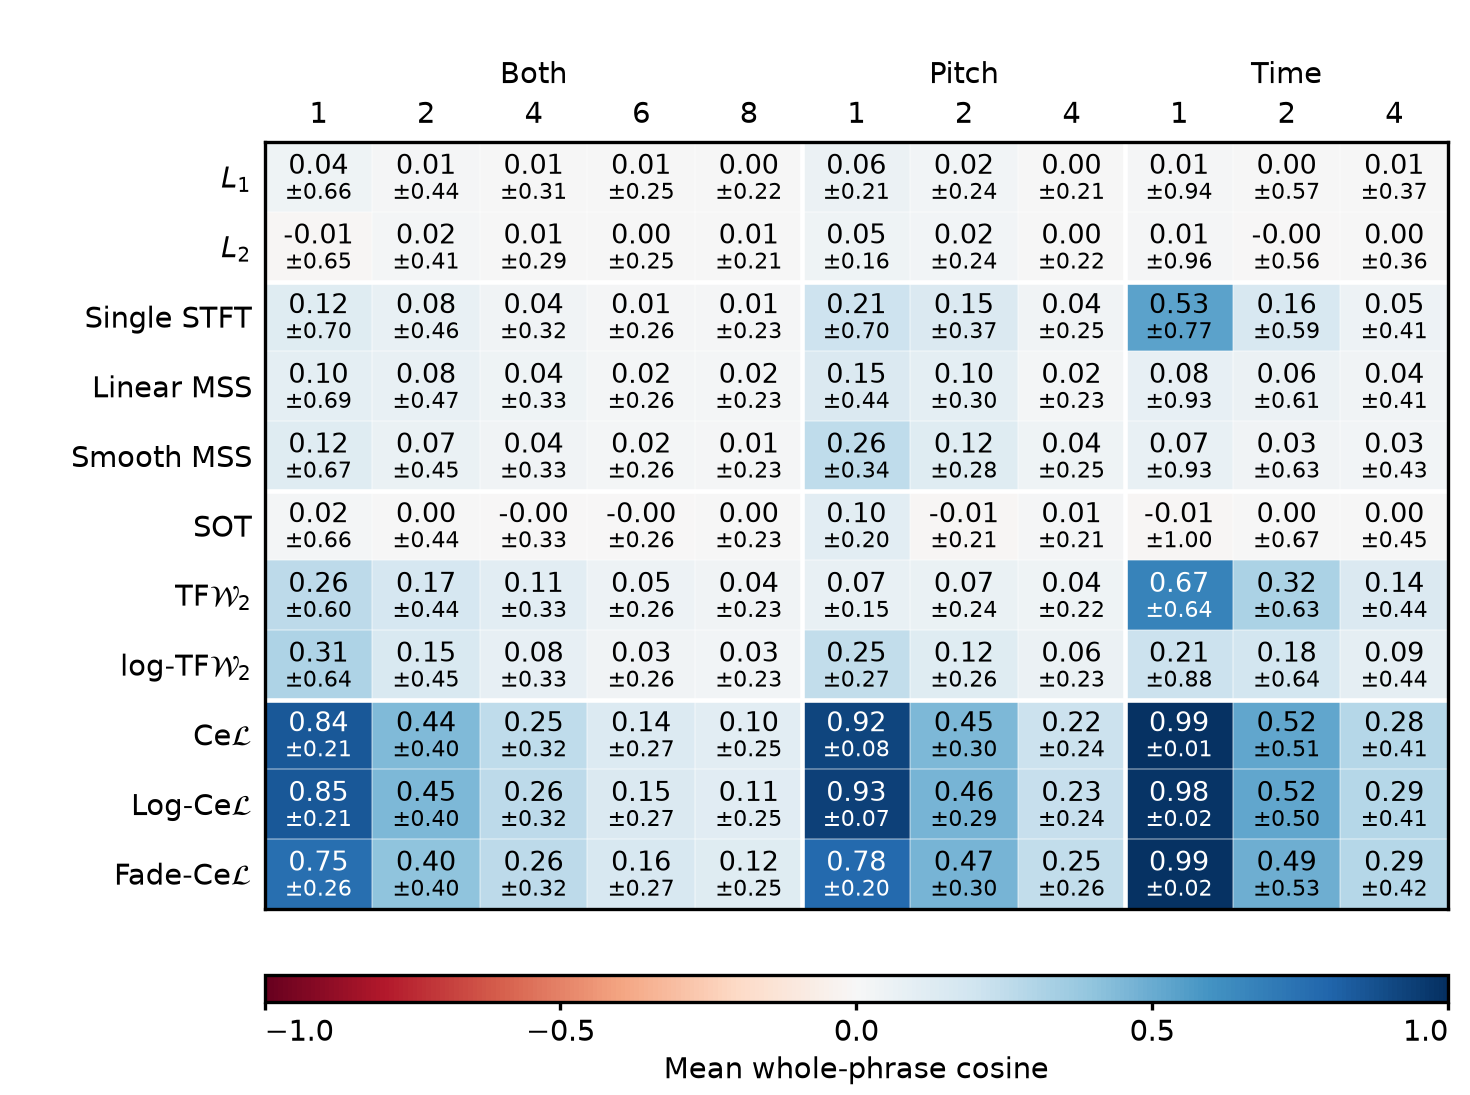
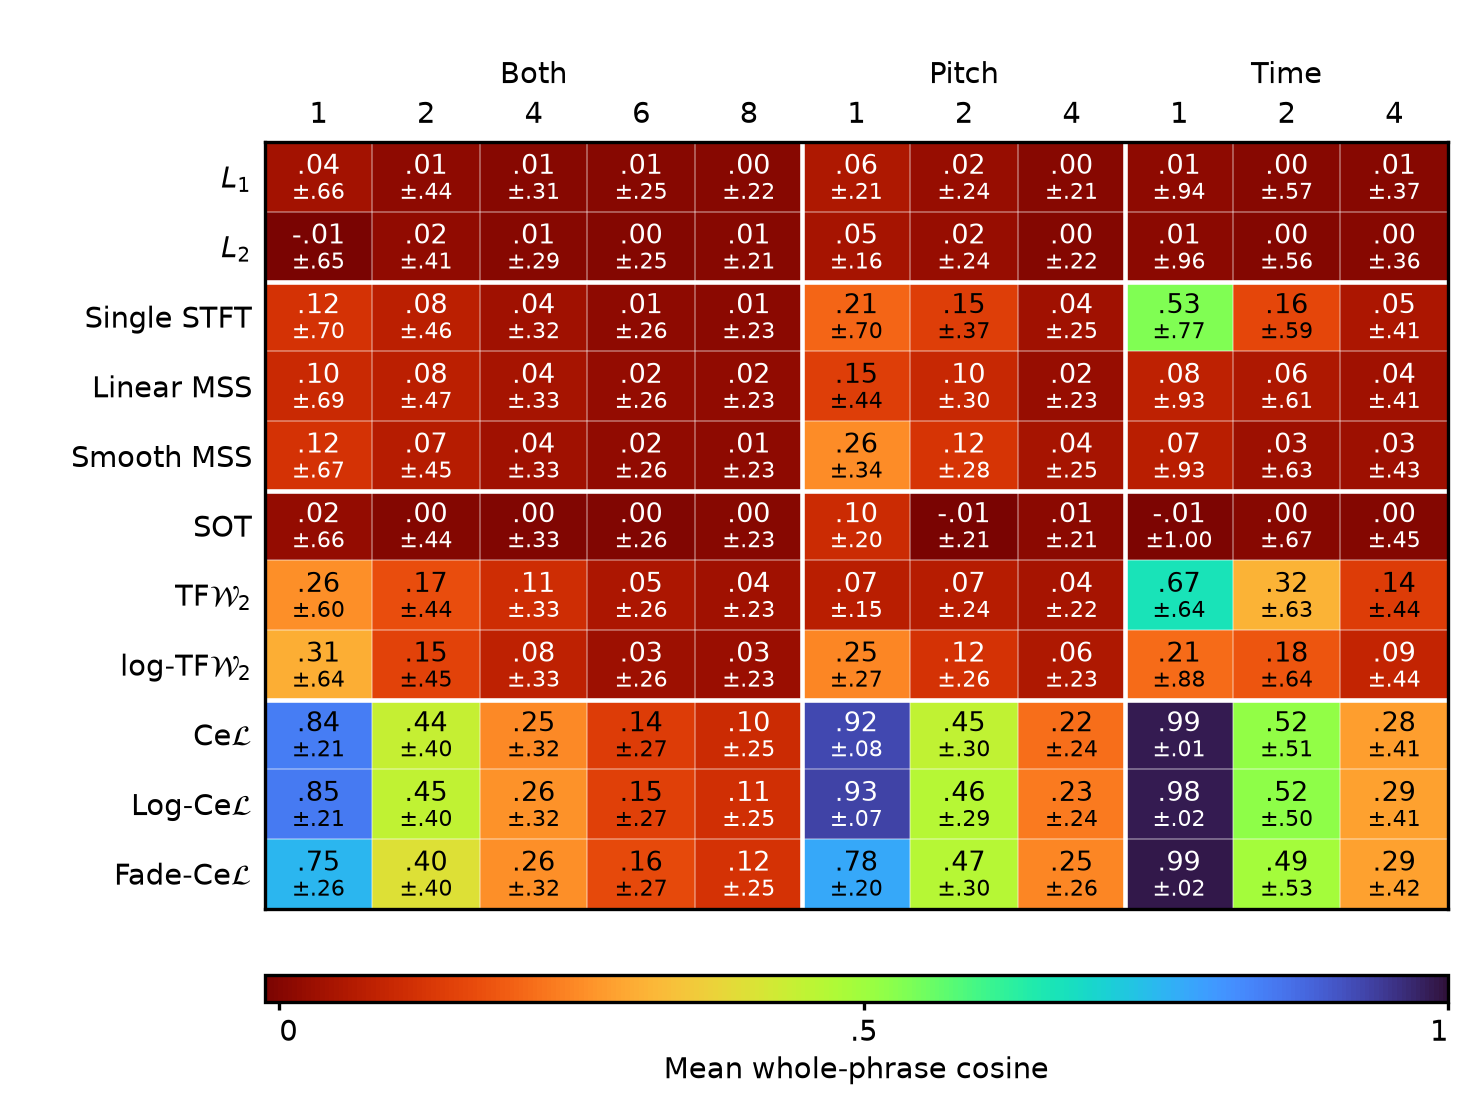
Restore cosine SD table with compact numbers and reversed turbo colours

diff --git a/scripts/report_gradient_alignment.py b/scripts/report_gradient_alignment.py
@@ -69,7 +69,9 @@ def compact_cosine(value):
     return f"{value:z.2f}".replace("0.", ".", 1) if abs(value) < 0.995 else f"{value:.2f}"
 
 
-def render(output, metric, means, sds, columns=COLUMNS, positive_percent=None):
+def render(
+    output, metric, means, sds, columns=COLUMNS, positive_percent=None, observed_turbo=False
+):
     width = len(columns)
     boundaries = [i - 0.5 for i in range(1, width) if columns[i][1] != columns[i - 1][1]]
     edges = [-0.5, *boundaries, width - 0.5]
@@ -88,8 +90,8 @@ def render(output, metric, means, sds, columns=COLUMNS, positive_percent=None):
     fig.subplots_adjust(left=0.245 if width == 7 else 0.18, right=0.985, top=0.87, bottom=0.17)
     im = ax.imshow(
         means,
-        cmap="cividis" if percentage else "RdBu",
-        vmin=0 if percentage else -1,
+        cmap="turbo_r" if observed_turbo else "cividis" if percentage else "RdBu",
+        vmin=float(means.min()) if observed_turbo else 0 if percentage else -1,
         vmax=100 if percentage else 1,
         aspect="auto",
     )
@@ -103,13 +105,17 @@ def render(output, metric, means, sds, columns=COLUMNS, positive_percent=None):
         for j in range(width):
             value = means[i, j]
             color = "white" if (value < 48 if percentage else abs(value) > 0.55) else "black"
+            if observed_turbo:
+                rgb = np.array(im.cmap(im.norm(value))[:3])
+                linear = np.where(rgb <= 0.04045, rgb / 12.92, ((rgb + 0.055) / 1.055) ** 2.4)
+                color = "black" if linear @ [0.2126, 0.7152, 0.0722] > 0.179 else "white"
             ax.text(
                 j,
                 i if percentage else i - 0.15,
                 f"{value:.1f}"
                 if percentage
                 else compact_cosine(value)
-                if positive_percent is not None
+                if positive_percent is not None or observed_turbo
                 else f"{value:.2f}",
                 ha="center",
                 va="center",
@@ -122,6 +128,8 @@ def render(output, metric, means, sds, columns=COLUMNS, positive_percent=None):
                     i + 0.23,
                     f"({positive_percent[i, j]:.1f}%)"
                     if positive_percent is not None
+                    else f"±{compact_cosine(sds[i, j])}"
+                    if observed_turbo
                     else f"±{sds[i, j]:.2f}",
                     ha="center",
                     va="center",
@@ -141,12 +149,18 @@ def render(output, metric, means, sds, columns=COLUMNS, positive_percent=None):
         im,
         cax=cax,
         orientation="horizontal",
-        ticks=[0, 25, 50, 75, 100] if percentage else [-1, -0.5, 0, 0.5, 1],
+        ticks=[0, 0.5, 1]
+        if observed_turbo
+        else [0, 25, 50, 75, 100]
+        if percentage
+        else [-1, -0.5, 0, 0.5, 1],
     )
     cb.set_label(
         METRICS[metric] + ("; (positive phrases %)" if positive_percent is not None else ""),
         labelpad=2,
     )
+    if observed_turbo:
+        cb.set_ticklabels(["0", ".5", "1"])
     cb.ax.tick_params(length=2, pad=2)
     cb.ax.get_xticklabels()[0].set_horizontalalignment("left")
     cb.ax.get_xticklabels()[-1].set_horizontalalignment("right")

diff --git a/scripts/render_gradient_cosine_sd.py b/scripts/render_gradient_cosine_sd.py
@@ -1,0 +1,61 @@
+"""Render saved phrase cosine ± SD with an observed-range reversed turbo map."""
+
+import csv
+import json
+from pathlib import Path
+
+import numpy as np
+from extend_gradient_cardinality import EXTENDED_COLUMNS
+from icassp27_phrase.gradient_assessment import NAMES
+from report_gradient_alignment import TEXT_LABELS, compact_cosine, render
+
+
+def main():
+    output = Path("docs/gradient-assessment/alignment-extended")
+    with (output / "summary.csv").open() as file:
+        rows = {
+            (int(r["events"]), r["condition"], r["loss"]): r
+            for r in csv.DictReader(file)
+            if r["metric"] == "phrase-cosine"
+        }
+    means, sds = np.zeros((11, 11)), np.zeros((11, 11))
+    for i, loss in enumerate(NAMES):
+        for j, (events, condition) in enumerate(EXTENDED_COLUMNS):
+            row = rows[events, condition, loss]
+            means[i, j], sds[i, j] = float(row["mean"]), float(row["candidate_sd"])
+    assert np.isfinite(means).all() and np.isfinite(sds).all()
+    render(output, "phrase-cosine", means, sds, EXTENDED_COLUMNS, observed_turbo=True)
+    headers = [
+        f"{ {'joint': 'Both', 'pitch': 'Pitch', 'time': 'Time'}[c] }: {n}"
+        for n, c in EXTENDED_COLUMNS
+    ]
+    lines = [
+        "# Mean whole-phrase cosine ± SD",
+        "",
+        "| Loss | " + " | ".join(headers) + " |",
+        "|---|" + "---:|" * 11,
+    ]
+    for i, label in enumerate(TEXT_LABELS):
+        cells = [f"{compact_cosine(means[i, j])} ± {compact_cosine(sds[i, j])}" for j in range(11)]
+        lines.append("| " + " | ".join([label, *cells]) + " |")
+    (output / "phrase-cosine.md").write_text("\n".join(lines) + "\n")
+    (output / "phrase-cosine-style.json").write_text(
+        json.dumps(
+            dict(
+                cmap="turbo_r",
+                vmin=float(means.min()),
+                vmax=1.0,
+                ticks=[0, 0.5, 1],
+                observed_max=float(means.max()),
+                annotations="mean ± sample SD across candidate phrases; leading zero omitted",
+                source="summary.csv",
+            ),
+            indent=2,
+        )
+        + "\n"
+    )
+    print(output / "phrase-cosine.png", flush=True)
+
+
+if __name__ == "__main__":
+    main()

diff --git a/docs/gradient-assessment/alignment-extended/phrase-cosine.md b/docs/gradient-assessment/alignment-extended/phrase-cosine.md
@@ -1,15 +1,15 @@
-# Mean whole-phrase cosine
+# Mean whole-phrase cosine ± SD
 
 | Loss | Both: 1 | Both: 2 | Both: 4 | Both: 6 | Both: 8 | Pitch: 1 | Pitch: 2 | Pitch: 4 | Time: 1 | Time: 2 | Time: 4 |
 |---|---:|---:|---:|---:|---:|---:|---:|---:|---:|---:|---:|
-| L1 | 0.04 ± 0.66 | 0.01 ± 0.44 | 0.01 ± 0.31 | 0.01 ± 0.25 | 0.00 ± 0.22 | 0.06 ± 0.21 | 0.02 ± 0.24 | 0.00 ± 0.21 | 0.01 ± 0.94 | 0.00 ± 0.57 | 0.01 ± 0.37 |
-| L2 | -0.01 ± 0.65 | 0.02 ± 0.41 | 0.01 ± 0.29 | 0.00 ± 0.25 | 0.01 ± 0.21 | 0.05 ± 0.16 | 0.02 ± 0.24 | 0.00 ± 0.22 | 0.01 ± 0.96 | -0.00 ± 0.56 | 0.00 ± 0.36 |
-| Single STFT | 0.12 ± 0.70 | 0.08 ± 0.46 | 0.04 ± 0.32 | 0.01 ± 0.26 | 0.01 ± 0.23 | 0.21 ± 0.70 | 0.15 ± 0.37 | 0.04 ± 0.25 | 0.53 ± 0.77 | 0.16 ± 0.59 | 0.05 ± 0.41 |
-| Linear MSS | 0.10 ± 0.69 | 0.08 ± 0.47 | 0.04 ± 0.33 | 0.02 ± 0.26 | 0.02 ± 0.23 | 0.15 ± 0.44 | 0.10 ± 0.30 | 0.02 ± 0.23 | 0.08 ± 0.93 | 0.06 ± 0.61 | 0.04 ± 0.41 |
-| Smooth MSS | 0.12 ± 0.67 | 0.07 ± 0.45 | 0.04 ± 0.33 | 0.02 ± 0.26 | 0.01 ± 0.23 | 0.26 ± 0.34 | 0.12 ± 0.28 | 0.04 ± 0.25 | 0.07 ± 0.93 | 0.03 ± 0.63 | 0.03 ± 0.43 |
-| SOT | 0.02 ± 0.66 | 0.00 ± 0.44 | -0.00 ± 0.33 | -0.00 ± 0.26 | 0.00 ± 0.23 | 0.10 ± 0.20 | -0.01 ± 0.21 | 0.01 ± 0.21 | -0.01 ± 1.00 | 0.00 ± 0.67 | 0.00 ± 0.45 |
-| TFW2 | 0.26 ± 0.60 | 0.17 ± 0.44 | 0.11 ± 0.33 | 0.05 ± 0.26 | 0.04 ± 0.23 | 0.07 ± 0.15 | 0.07 ± 0.24 | 0.04 ± 0.22 | 0.67 ± 0.64 | 0.32 ± 0.63 | 0.14 ± 0.44 |
-| log-TFW2 | 0.31 ± 0.64 | 0.15 ± 0.45 | 0.08 ± 0.33 | 0.03 ± 0.26 | 0.03 ± 0.23 | 0.25 ± 0.27 | 0.12 ± 0.26 | 0.06 ± 0.23 | 0.21 ± 0.88 | 0.18 ± 0.64 | 0.09 ± 0.44 |
-| CeL | 0.84 ± 0.21 | 0.44 ± 0.40 | 0.25 ± 0.32 | 0.14 ± 0.27 | 0.10 ± 0.25 | 0.92 ± 0.08 | 0.45 ± 0.30 | 0.22 ± 0.24 | 0.99 ± 0.01 | 0.52 ± 0.51 | 0.28 ± 0.41 |
-| Log-CeL | 0.85 ± 0.21 | 0.45 ± 0.40 | 0.26 ± 0.32 | 0.15 ± 0.27 | 0.11 ± 0.25 | 0.93 ± 0.07 | 0.46 ± 0.29 | 0.23 ± 0.24 | 0.98 ± 0.02 | 0.52 ± 0.50 | 0.29 ± 0.41 |
-| Fade-CeL | 0.75 ± 0.26 | 0.40 ± 0.40 | 0.26 ± 0.32 | 0.16 ± 0.27 | 0.12 ± 0.25 | 0.78 ± 0.20 | 0.47 ± 0.30 | 0.25 ± 0.26 | 0.99 ± 0.02 | 0.49 ± 0.53 | 0.29 ± 0.42 |
+| L1 | .04 ± .66 | .01 ± .44 | .01 ± .31 | .01 ± .25 | .00 ± .22 | .06 ± .21 | .02 ± .24 | .00 ± .21 | .01 ± .94 | .00 ± .57 | .01 ± .37 |
+| L2 | -.01 ± .65 | .02 ± .41 | .01 ± .29 | .00 ± .25 | .01 ± .21 | .05 ± .16 | .02 ± .24 | .00 ± .22 | .01 ± .96 | .00 ± .56 | .00 ± .36 |
+| Single STFT | .12 ± .70 | .08 ± .46 | .04 ± .32 | .01 ± .26 | .01 ± .23 | .21 ± .70 | .15 ± .37 | .04 ± .25 | .53 ± .77 | .16 ± .59 | .05 ± .41 |
+| Linear MSS | .10 ± .69 | .08 ± .47 | .04 ± .33 | .02 ± .26 | .02 ± .23 | .15 ± .44 | .10 ± .30 | .02 ± .23 | .08 ± .93 | .06 ± .61 | .04 ± .41 |
+| Smooth MSS | .12 ± .67 | .07 ± .45 | .04 ± .33 | .02 ± .26 | .01 ± .23 | .26 ± .34 | .12 ± .28 | .04 ± .25 | .07 ± .93 | .03 ± .63 | .03 ± .43 |
+| SOT | .02 ± .66 | .00 ± .44 | .00 ± .33 | .00 ± .26 | .00 ± .23 | .10 ± .20 | -.01 ± .21 | .01 ± .21 | -.01 ± 1.00 | .00 ± .67 | .00 ± .45 |
+| TFW2 | .26 ± .60 | .17 ± .44 | .11 ± .33 | .05 ± .26 | .04 ± .23 | .07 ± .15 | .07 ± .24 | .04 ± .22 | .67 ± .64 | .32 ± .63 | .14 ± .44 |
+| log-TFW2 | .31 ± .64 | .15 ± .45 | .08 ± .33 | .03 ± .26 | .03 ± .23 | .25 ± .27 | .12 ± .26 | .06 ± .23 | .21 ± .88 | .18 ± .64 | .09 ± .44 |
+| CeL | .84 ± .21 | .44 ± .40 | .25 ± .32 | .14 ± .27 | .10 ± .25 | .92 ± .08 | .45 ± .30 | .22 ± .24 | .99 ± .01 | .52 ± .51 | .28 ± .41 |
+| Log-CeL | .85 ± .21 | .45 ± .40 | .26 ± .32 | .15 ± .27 | .11 ± .25 | .93 ± .07 | .46 ± .29 | .23 ± .24 | .98 ± .02 | .52 ± .50 | .29 ± .41 |
+| Fade-CeL | .75 ± .26 | .40 ± .40 | .26 ± .32 | .16 ± .27 | .12 ± .25 | .78 ± .20 | .47 ± .30 | .25 ± .26 | .99 ± .02 | .49 ± .53 | .29 ± .42 |

diff --git a/docs/gradient-assessment/alignment-extended/README.md b/docs/gradient-assessment/alignment-extended/README.md
@@ -86,3 +86,16 @@ Colour encodes cosine only. Cosines omit the leading zero (including negatives,
 e.g. −.01); values rounding to zero display .00. This is a presentation of the
 existing summary.csv results, with no new gradients or changed scores.
 Reproduce with `scripts/render_gradient_cosine_positive.py` using the project Python.
+
+
+## Current phrase-cosine styling
+
+The primary [phrase-cosine figure](phrase-cosine.png) again shows mean ± SD,
+with the leading zero omitted in both numbers. It uses Matplotlib's `turbo_r`
+with a linear colour range from the lowest observed mean (−0.012572...) to +1;
+ticks mark 0, .5 and 1. Negative means are retained without clipping. Colour
+encodes mean only, not SD. This replaces the original full-range RdBu styling
+for this figure; other metric figures retain their previous scales.
+The percentage-combination figure remains available as an alternative.
+Reproduce the current figure with `scripts/render_gradient_cosine_sd.py` using
+the project Python. Exact colour limits are in phrase-cosine-style.json.
